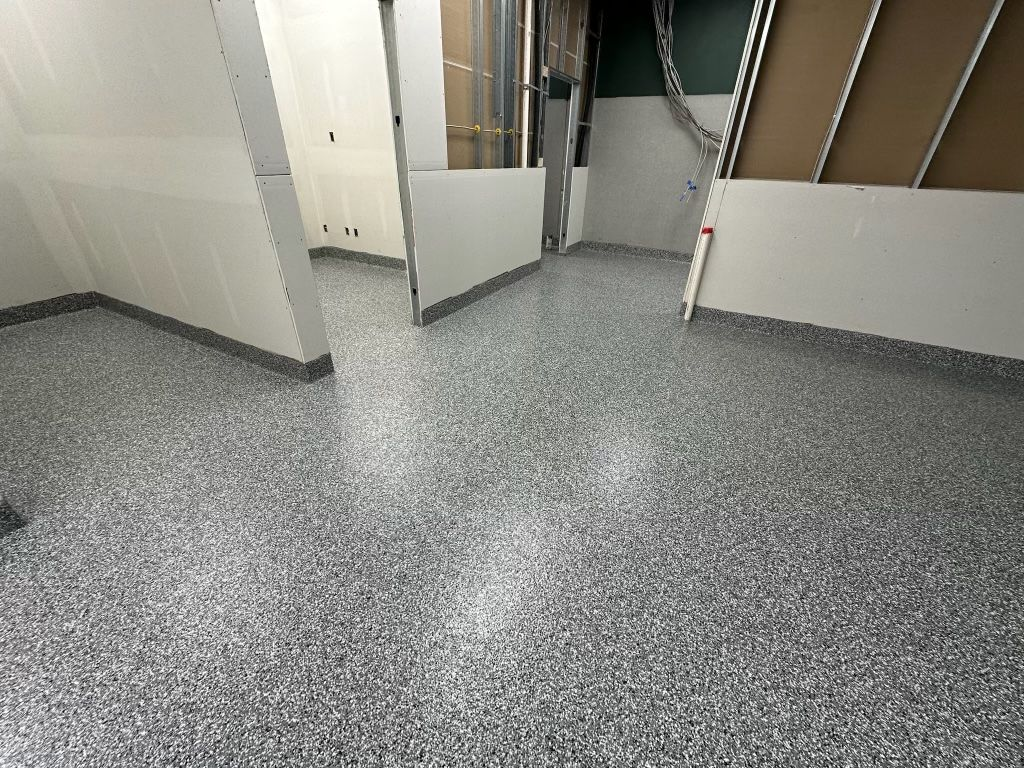
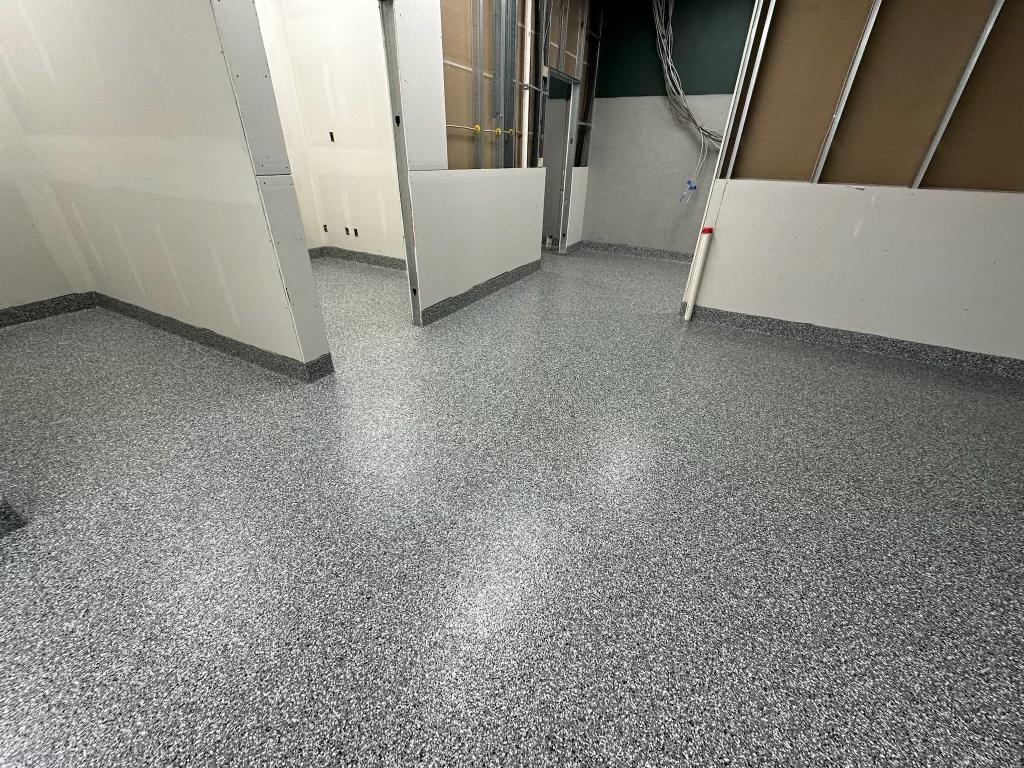
Xtreme Epoxy: expand Commercial to 22 photos, add before/after slider, gallery cleanup
- Commercial gallery: 12 -> 22 (all finished work from the client's folder)
- New 'Same job. Same slab.' before/after slider under the gallery: bare
  patched slab vs finished flake floor from the same commercial build-out.
  Drag / tap / keyboard, clip-path reveal, range input for a11y.
- Cut mid-job shots from finished galleries: 27 (tarp), 42 (no floor
  visible), 49 (pre-coating cracks)
- Re-encoded 4 heaviest photos (q74)

diff --git a/XtremeEpoxy/index.html b/XtremeEpoxy/index.html
@@ -294,6 +294,15 @@ footer{border-top:1px solid var(--line);background:var(--panel);padding:60px 0 3
 /* ── gallery ── */
 #gallery{border-top:1px solid var(--line);background:linear-gradient(180deg,rgba(24,19,32,.55),transparent 55%)}
 .gal-grid{display:grid;grid-template-columns:repeat(2,1fr);gap:26px}
+.ba{position:relative;aspect-ratio:16/8;border:1px solid var(--line);border-radius:14px;overflow:hidden;background:#0d0b12;user-select:none;-webkit-user-select:none}
+.ba .ba-img{position:absolute;inset:0;width:100%;height:100%;object-fit:cover;display:block}
+.ba-before{position:absolute;inset:0;clip-path:inset(0 50% 0 0)}
+.ba-handle{position:absolute;top:0;bottom:0;left:50%;width:2px;background:rgba(237,238,242,.9);z-index:3;transform:translateX(-1px);pointer-events:none}
+.ba-grip{position:absolute;top:50%;left:50%;transform:translate(-50%,-50%);width:44px;height:44px;border-radius:50%;background:rgba(8,7,11,.85);border:1px solid rgba(237,238,242,.5);display:flex;align-items:center;justify-content:center;gap:2px;color:var(--text)}
+.ba-tag{position:absolute;bottom:14px;z-index:2;font-family:var(--display);font-weight:600;font-size:.72rem;letter-spacing:.22em;text-transform:uppercase;padding:6px 12px;border-radius:999px;background:rgba(8,7,11,.72);border:1px solid var(--line);color:var(--text);pointer-events:none}
+.ba-tag.l{left:14px}.ba-tag.r{right:14px}
+.ba input[type=range]{position:absolute;inset:0;width:100%;height:100%;margin:0;opacity:0;cursor:ew-resize;z-index:4;touch-action:none}
+@media(max-width:720px){.ba{aspect-ratio:4/3}}
 .gcard.wide{grid-column:1/-1}
 .gcard.wide .gstage{aspect-ratio:8/3}
 .gcard.soon{cursor:default}
@@ -478,6 +487,29 @@ body.gal-open{overflow:hidden}
       <p>Garages, pool decks, patios and basements, finished by our crew. Pick a type to see the full set.</p>
     </div>
     <div class="gal-grid" id="galGrid"></div>
+  </div>
+</section>
+
+<!-- BEFORE / AFTER -->
+<section class="sec alt" id="beforeafter">
+  <div class="wrap">
+    <div class="sec-head reveal">
+      <span class="eyebrow">Before &amp; after</span>
+      <h2>Same job. Same slab.</h2>
+      <p>A commercial build-out, from bare patched concrete to a sealed flake floor. Drag the handle.</p>
+    </div>
+    <div class="ba reveal" id="ba">
+      <img class="ba-img" src="img/72.jpg" alt="After: finished commercial flake floor" loading="lazy" decoding="async">
+      <div class="ba-before" id="baBefore" aria-hidden="true">
+        <img class="ba-img" src="img/93.jpg" alt="" loading="lazy" decoding="async">
+      </div>
+      <div class="ba-handle" id="baHandle" aria-hidden="true">
+        <span class="ba-grip"><svg width="14" height="14" viewBox="0 0 24 24" fill="none" stroke="currentColor" stroke-width="2.4"><polyline points="15 18 9 12 15 6"/></svg><svg width="14" height="14" viewBox="0 0 24 24" fill="none" stroke="currentColor" stroke-width="2.4"><polyline points="9 18 15 12 9 6"/></svg></span>
+      </div>
+      <span class="ba-tag l" aria-hidden="true">Before</span>
+      <span class="ba-tag r" aria-hidden="true">After</span>
+      <input type="range" id="baRange" min="0" max="100" value="50" step="0.5" aria-label="Compare before and after: slide to reveal">
+    </div>
   </div>
 </section>
 
@@ -812,14 +844,23 @@ const GAL = [
       'img/79.jpg',
       'img/80.jpg',
       'img/81.jpg',
-      'img/82.jpg'
+      'img/82.jpg',
+      'img/83.jpg',
+      'img/84.jpg',
+      'img/85.jpg',
+      'img/86.jpg',
+      'img/87.jpg',
+      'img/88.jpg',
+      'img/89.jpg',
+      'img/90.jpg',
+      'img/91.jpg',
+      'img/92.jpg'
     ] },
     { key:'patio', name:'Patios & Porches',
     shots:[
       'img/24.jpg',
       'img/25.jpg',
       'img/26.jpg',
-      'img/27.jpg',
       'img/28.jpg',
       'img/29.jpg',
       'img/30.jpg',
@@ -837,7 +878,6 @@ const GAL = [
       'img/39.jpg',
       'img/40.jpg',
       'img/41.jpg',
-      'img/42.jpg',
       'img/43.jpg',
       'img/44.jpg',
       'img/45.jpg',
@@ -847,7 +887,6 @@ const GAL = [
     shots:[
       'img/47.jpg',
       'img/48.jpg',
-      'img/49.jpg',
       'img/50.jpg',
       'img/51.jpg',
       'img/52.jpg',
@@ -864,6 +903,23 @@ const GAL = [
 
 /* one embedded copy per photo serves both the card and the expanded view */
 GAL.forEach(job => job.shots = job.shots.map(u => ({ src:u, thumb:u })));
+
+/* before/after slider */
+const baRange = document.getElementById('baRange');
+if(baRange){
+  const baBefore = document.getElementById('baBefore'), baHandle = document.getElementById('baHandle');
+  const baSet = v => { v = Math.max(0, Math.min(100, v)); baRange.value = v;
+    baBefore.style.clipPath = 'inset(0 ' + (100 - v) + '% 0 0)'; baHandle.style.left = v + '%'; };
+  baRange.addEventListener('input', () => baSet(+baRange.value));
+  const baBox = document.getElementById('ba');
+  let baDrag = false;
+  const baFromX = x => { const r = baBox.getBoundingClientRect(); baSet((x - r.left) / r.width * 100); };
+  baBox.addEventListener('pointerdown', e => { baDrag = true; baFromX(e.clientX); try{ baBox.setPointerCapture(e.pointerId); }catch(_){} });
+  baBox.addEventListener('pointermove', e => { if(baDrag) baFromX(e.clientX); });
+  baBox.addEventListener('pointerup', () => baDrag = false);
+  baBox.addEventListener('pointercancel', () => baDrag = false);
+  baSet(50);
+}
 
 const galGrid = document.getElementById('galGrid');
 const reduceMotion = window.matchMedia('(prefers-reduced-motion:reduce)').matches;
